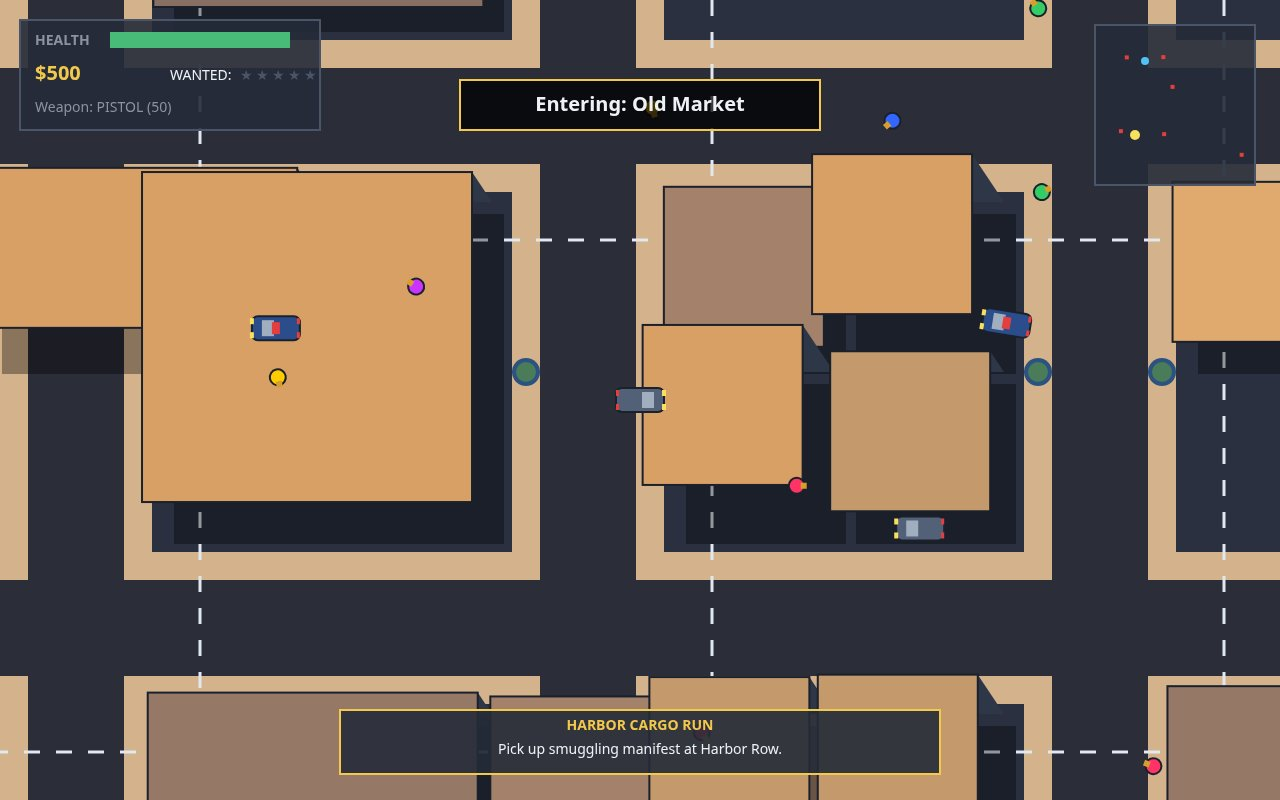
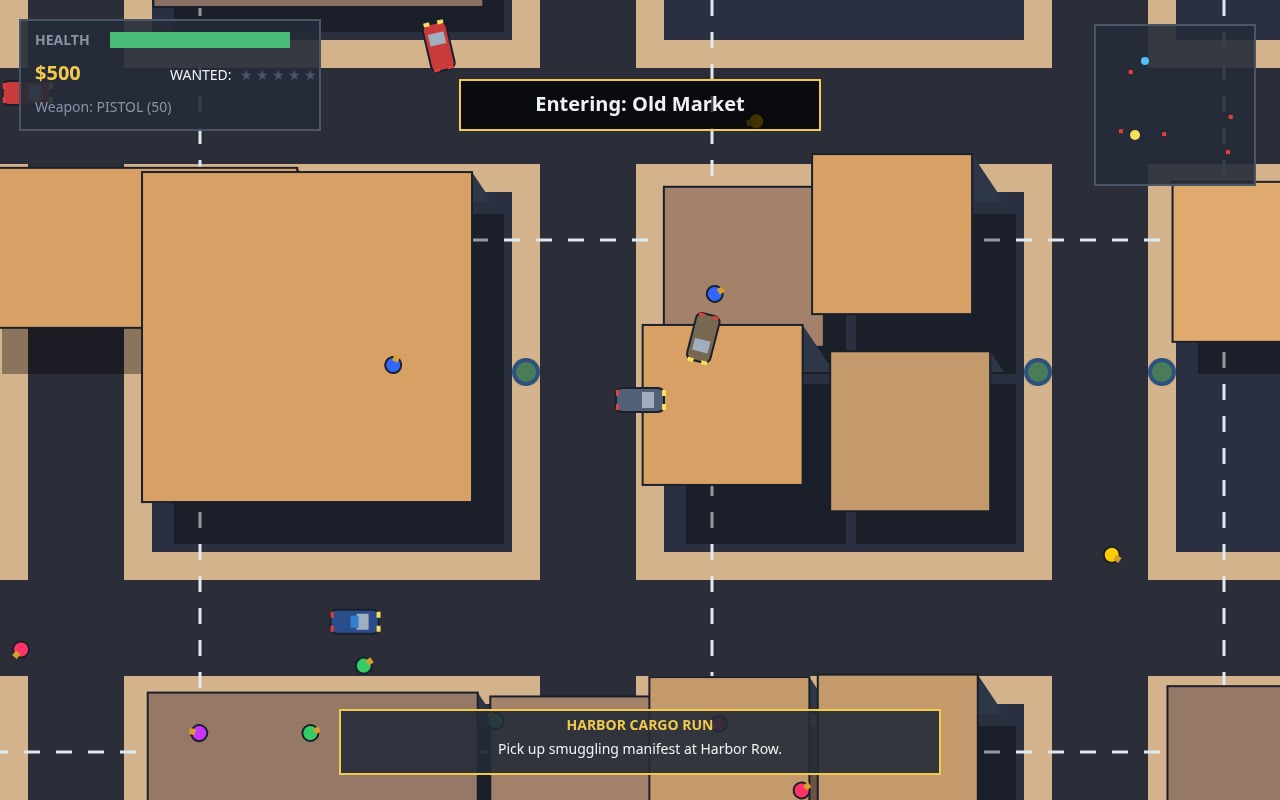
Re-recorded build: on-road traffic and pedestrian spawning, fuller city (34 cars, 44 peds), retaken screenshots

diff --git a/game/src/world.js b/game/src/world.js
@@ -21,11 +21,17 @@ export function districtAt(world, x, y) {
 }
 
 export function isRoad(world, x, y) {
-  if (y >= WORLD.waterY) {
-    return x >= 1520 && x <= 1680;
+  let px = x;
+  let py = y;
+  if (typeof world === 'number' && typeof x === 'number') {
+    py = x;
+    px = world;
   }
-  const rx = Math.abs((x + 180) % 360 - 180);
-  const ry = Math.abs((y + 180) % 360 - 180);
+  if (py >= WORLD.waterY) {
+    return px >= 1520 && px <= 1680;
+  }
+  const rx = Math.abs((px + 180) % 360 - 180);
+  const ry = Math.abs((py + 180) % 360 - 180);
   return rx <= WORLD.roadWidth / 2 || ry <= WORLD.roadWidth / 2;
 }
 
@@ -95,16 +101,27 @@ export function createWorld(seedOrRandom) {
     }
   }
 
+  // Helper for road spawning with up to 40 retries and fallback
+  function getRoadSpawn() {
+    for (let attempt = 0; attempt < 40; attempt++) {
+      const rx = rng.range(200, WORLD.width - 200);
+      const ry = rng.range(200, WORLD.waterY - 200);
+      if (isRoad(null, rx, ry)) {
+        return { x: rx, y: ry };
+      }
+    }
+    return { x: 1600, y: 1600 };
+  }
+
   // Spawn Parked Cars (~18) along curbs
   const carClasses = Object.keys(VEHICLE_CLASSES);
   for (let i = 0; i < 18; i++) {
-    const rx = rng.range(200, WORLD.width - 200);
-    const ry = rng.range(200, WORLD.waterY - 200);
+    const pos = getRoadSpawn();
     const classKey = rng.pick(carClasses);
     const conf = VEHICLE_CLASSES[classKey];
     cars.push({
-      x: rx,
-      y: ry,
+      x: pos.x,
+      y: pos.y,
       angle: rng.range(0, Math.PI * 2),
       speed: 0,
       classKey,
@@ -114,15 +131,14 @@ export function createWorld(seedOrRandom) {
     });
   }
 
-  // Spawn Traffic Cars (~14) on roads
-  for (let i = 0; i < 14; i++) {
-    const rx = rng.range(200, WORLD.width - 200);
-    const ry = rng.range(200, WORLD.waterY - 200);
+  // Spawn Traffic Cars (~16) on roads
+  for (let i = 0; i < 16; i++) {
+    const pos = getRoadSpawn();
     const classKey = rng.pick(carClasses);
     const conf = VEHICLE_CLASSES[classKey];
     cars.push({
-      x: rx,
-      y: ry,
+      x: pos.x,
+      y: pos.y,
       angle: rng.pick([0, Math.PI / 2, Math.PI, Math.PI * 1.5]),
       speed: rng.range(100, 250),
       classKey,
@@ -132,11 +148,12 @@ export function createWorld(seedOrRandom) {
     });
   }
 
-  // Spawn Pedestrians (~40)
-  for (let i = 0; i < 40; i++) {
+  // Spawn Pedestrians (~44) on roads/sidewalks
+  for (let i = 0; i < 44; i++) {
+    const pos = getRoadSpawn();
     pedestrians.push({
-      x: rng.range(100, WORLD.width - 100),
-      y: rng.range(100, WORLD.waterY - 100),
+      x: pos.x,
+      y: pos.y,
       angle: rng.range(0, Math.PI * 2),
       speed: rng.range(30, 60),
       color: rng.pick(['#ffcc00', '#3366ff', '#ff3366', '#33cc66', '#cc33ff']),

diff --git a/game/src/main.js b/game/src/main.js
@@ -48,7 +48,7 @@ function main() {
     const res = stageShot(shotName, world, seed);
     currentState = res.screen;
     if (res.hasSave) hasSave = true;
-    // Render once and set shot-ready
+    // Render once with snapCamera and set shot-ready
     renderer.render(world, currentState, { hasSave, snapCamera: true });
     document.title = 'shot-ready';
     return;

diff --git a/game/src/render.js b/game/src/render.js
@@ -45,7 +45,7 @@ export function createRenderer(canvas) {
       return;
     }
 
-    // Camera follow player with smooth lerp
+    // Camera follow player with smooth lerp or snap
     const targetCamX = world.player.car ? world.player.car.x : world.player.x;
     const targetCamY = world.player.car ? world.player.car.y : world.player.y;
     if (options.snapCamera) {
